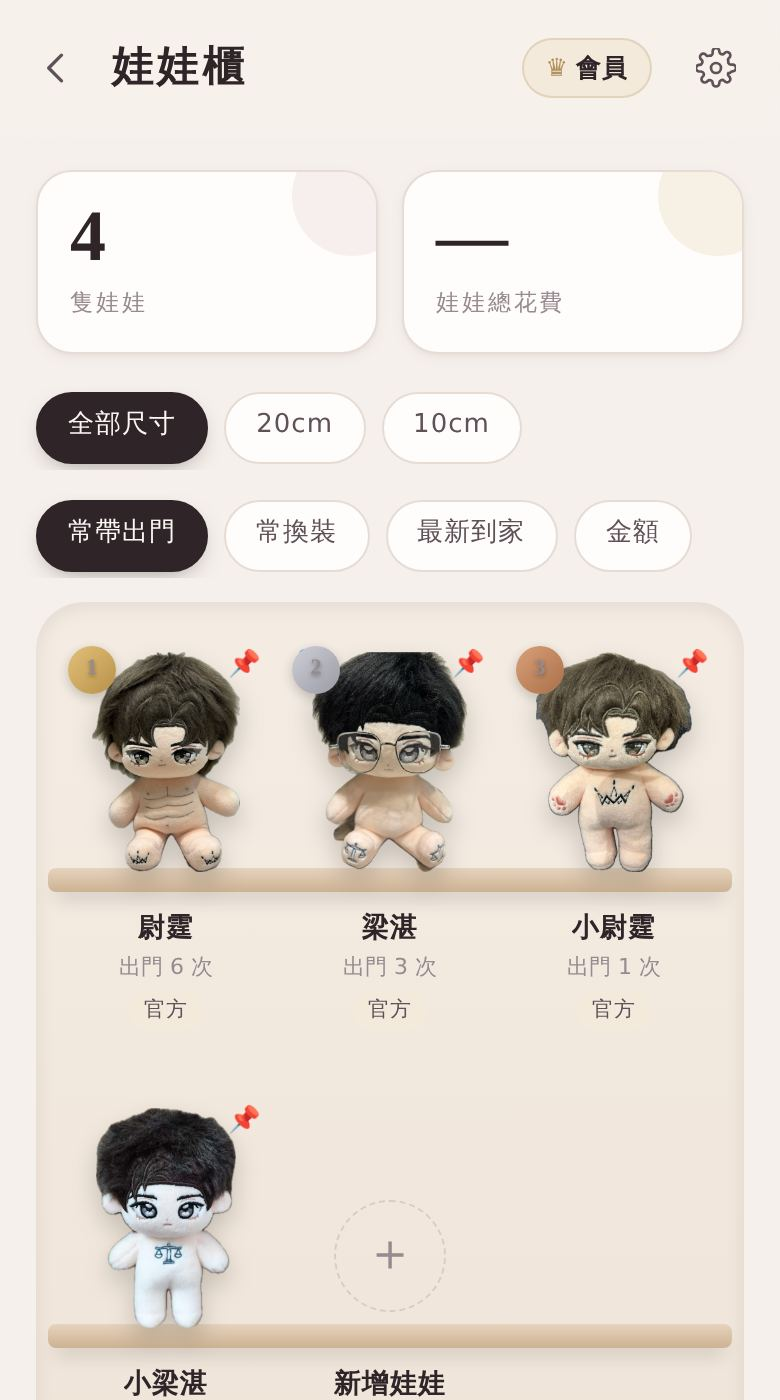
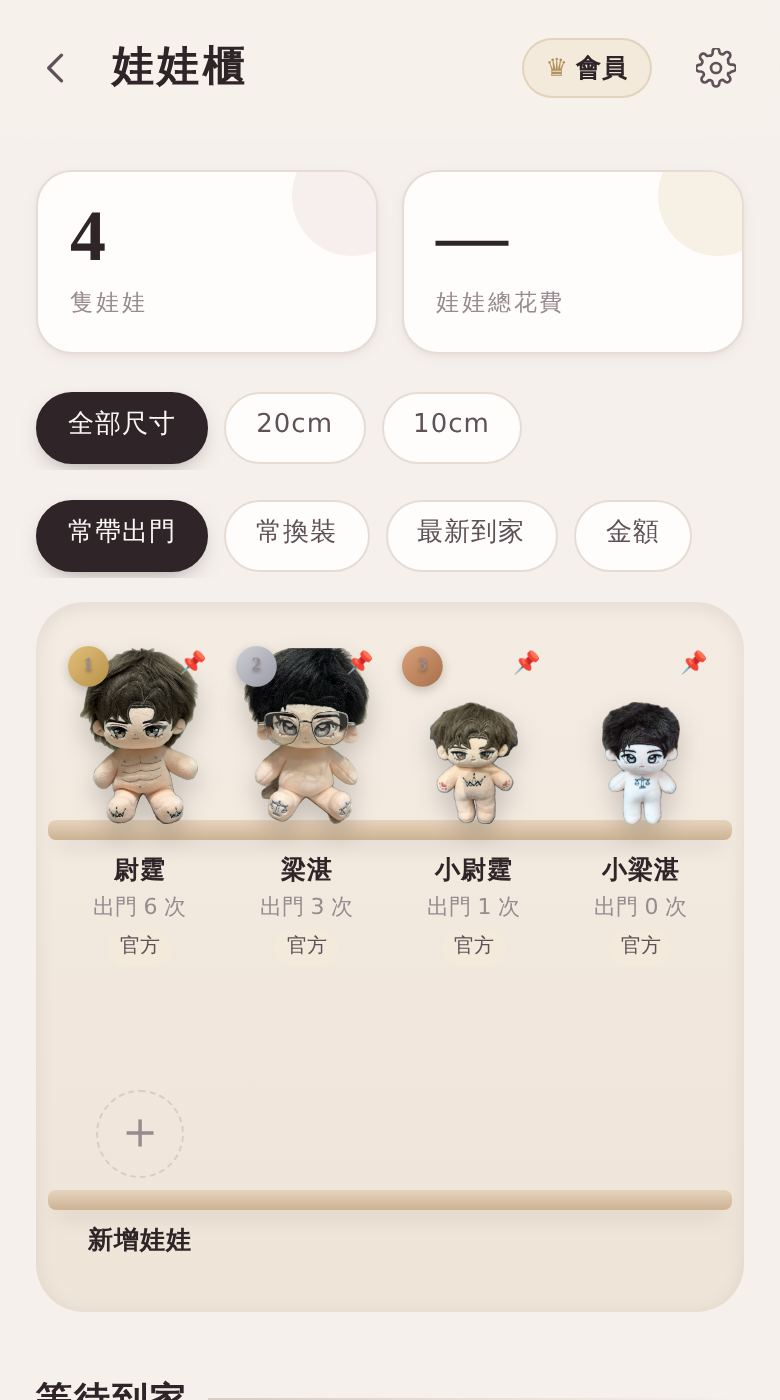
Compact doll cabinet: 4 per shelf, smaller dolls stand shorter
Claude-Session: https://claude.ai/code/session_013p9EF3oSTmkYepVm2bjkxk

diff --git a/doll-wardrobe.html b/doll-wardrobe.html
@@ -675,18 +675,21 @@ nav.tabs button.plus.on{color:var(--berry)}
 .scwrap img:not([src]){display:none}
 .scwrap .spin{position:absolute;width:22px;height:22px}
 .cabinet{margin-top:6px;padding:18px 12px 6px;border-radius:24px;background:linear-gradient(180deg,var(--wood-bg1),var(--wood-bg2));box-shadow:inset 0 2px 10px rgba(0,0,0,.08)}
-.shelf{display:grid;grid-template-columns:repeat(3,1fr);gap:6px;position:relative;padding-bottom:14px;margin-bottom:18px}
-.shelf::before{content:"";position:absolute;left:-6px;right:-6px;top:calc(min(30vw,150px) - 2px);height:12px;border-radius:4px;
+.shelf{display:grid;grid-template-columns:repeat(4,1fr);gap:4px;position:relative;padding-bottom:8px;margin-bottom:12px}
+.shelf::before{content:"";position:absolute;left:-6px;right:-6px;top:calc(min(24vw,112px) - 2px);height:10px;border-radius:4px;
   background:linear-gradient(180deg,var(--wood1),var(--wood2));box-shadow:0 6px 10px -4px rgba(0,0,0,.25)}
 .dcell{display:flex;flex-direction:column;align-items:center;text-align:center;position:relative;z-index:1;min-width:0;transition:transform .18s var(--ease)}
 .dcell:active{transform:scale(.96)}
-.dstand{position:relative;height:min(30vw,150px);width:100%;display:flex;align-items:flex-end;justify-content:center}
+.dstand{position:relative;height:min(24vw,112px);width:100%;display:flex;align-items:flex-end;justify-content:center}
 .dstand img{max-width:92%;max-height:94%;object-fit:contain;filter:drop-shadow(0 6px 6px rgba(0,0,0,.18))}
+.dstand.small img{max-height:66%;max-width:72%}
+.dcell .pin{font-size:11px}
+.rank{transform:scale(.85);transform-origin:top left}
 .dstand .ph svg{height:80px;width:auto}
-.dcell.add .dstand span{width:56px;height:56px;margin-bottom:8px;border-radius:50%;display:grid;place-items:center;border:1.5px dashed var(--line-2);color:var(--muted);font-size:26px;font-weight:300}
-.dcell b{margin-top:18px;font-size:13.5px;max-width:100%;overflow:hidden;text-overflow:ellipsis;white-space:nowrap}
+.dcell.add .dstand span{width:44px;height:44px;margin-bottom:8px;border-radius:50%;display:grid;place-items:center;border:1.5px dashed var(--line-2);color:var(--muted);font-size:26px;font-weight:300}
+.dcell b{margin-top:13px;font-size:12.5px;max-width:100%;overflow:hidden;text-overflow:ellipsis;white-space:nowrap}
 .dcell span{font-size:11px;color:var(--muted)}
-.dcell em{font-style:normal;font-size:10.5px;margin-top:3px;padding:1px 8px;border-radius:999px;background:var(--berry-soft);color:var(--berry-deep);max-width:100%;overflow:hidden;text-overflow:ellipsis;white-space:nowrap}
+.dcell em{font-style:normal;font-size:10px;margin-top:2px;padding:1px 6px;border-radius:999px;background:var(--berry-soft);color:var(--berry-deep);max-width:100%;overflow:hidden;text-overflow:ellipsis;white-space:nowrap}
 .dcell em.src{background:var(--gold-soft);color:var(--ink-2)}
 .rank{position:absolute;top:4px;left:4px;width:24px;height:24px;border-radius:50%;display:grid;place-items:center;font-family:var(--num);font-weight:700;font-size:15px;color:#fff;z-index:2;text-shadow:0 1px 2px rgba(0,0,0,.35);box-shadow:0 2px 6px rgba(0,0,0,.2)}
 .rank.r1{background:linear-gradient(135deg,#E2C07A,#B8914A)}
@@ -2496,6 +2499,11 @@ let DD={};
 const DOLL_SRC=['跟團購買','私生','官方','二手','交換／贈送','其他'];
 const DOLL_SORT=[['out','常帶出門'],['wear','常換裝'],['new','最新到家'],['price','金額']];
 const outCount=d=>(d.outs||[]).length;
+// 娃娃櫃裡比較小隻的（例如 10cm 跟 20cm 放一起）站得矮一點，看得出大小
+function dollSmall(d){
+  const cm=x=>parseFloat(x&&x.size)||0,max=Math.max(0,...S.dolls.map(cm));
+  return cm(d)>0&&max>0&&cm(d)<=max*.6;
+}
 function renderDolls(){
   const el=document.getElementById('dollList');
   const srt=UI.dollSort||'out';
@@ -2508,7 +2516,7 @@ function renderDolls(){
   const cnt=f=>S.dolls.filter(f).length;
   // 依照「常帶出門」排出前三名
   const rank=S.dolls.filter(d=>outCount(d)>0).sort((a,b)=>outCount(b)-outCount(a)).slice(0,3).map(d=>d.id);
-  const rows=[];for(let i=0;i<list.length+1;i+=3)rows.push(list.slice(i,i+3));
+  const rows=[];for(let i=0;i<list.length+1;i+=4)rows.push(list.slice(i,i+4));
   el.innerHTML=`
     <div class="stat">
       <div><b>${S.dolls.length}</b><span>隻娃娃</span></div>
@@ -2520,7 +2528,7 @@ function renderDolls(){
       ${rows.map((r,ri)=>`<div class="shelf">${r.map(d=>{
         const n=rank.indexOf(d.id);
         return `<button class="dcell" onclick="openDoll('${d.id}')">
-          <div class="dstand">${d.photo?`<img src="${d.photo}" alt="">`:`<div class="ph sm">${DOLL_SVG}</div>`}${d.pin?'<span class="pin" title="釘選在首頁">📌</span>':''}${dollOpen(d).some(c=>c.status==='處理中')?'<span class="pin" style="left:6px;right:auto" title="在手作娘那裡">🪡</span>':dollOpen(d).length?'<span class="pin" style="left:6px;right:auto" title="有要處理的">⚠</span>':''}
+          <div class="dstand ${dollSmall(d)?'small':''}">${d.photo?`<img src="${d.photo}" alt="">`:`<div class="ph sm">${DOLL_SVG}</div>`}${d.pin?'<span class="pin" title="釘選在首頁">📌</span>':''}${dollOpen(d).some(c=>c.status==='處理中')?'<span class="pin" style="left:6px;right:auto" title="在手作娘那裡">🪡</span>':dollOpen(d).length?'<span class="pin" style="left:6px;right:auto" title="有要處理的">⚠</span>':''}
             ${n>=0&&srt==='out'?`<span class="rank r${n+1}">${n+1}</span>`:''}</div>
           <b>${esc(d.name)}</b>
           <span>${srt==='wear'?`換裝 ${dollWears(d).length} 次`:srt==='price'&&d.price?`$${(+d.price).toLocaleString()}`:`出門 ${outCount(d)} 次`}</span>

diff --git a/index.html b/index.html
@@ -675,18 +675,21 @@ nav.tabs button.plus.on{color:var(--berry)}
 .scwrap img:not([src]){display:none}
 .scwrap .spin{position:absolute;width:22px;height:22px}
 .cabinet{margin-top:6px;padding:18px 12px 6px;border-radius:24px;background:linear-gradient(180deg,var(--wood-bg1),var(--wood-bg2));box-shadow:inset 0 2px 10px rgba(0,0,0,.08)}
-.shelf{display:grid;grid-template-columns:repeat(3,1fr);gap:6px;position:relative;padding-bottom:14px;margin-bottom:18px}
-.shelf::before{content:"";position:absolute;left:-6px;right:-6px;top:calc(min(30vw,150px) - 2px);height:12px;border-radius:4px;
+.shelf{display:grid;grid-template-columns:repeat(4,1fr);gap:4px;position:relative;padding-bottom:8px;margin-bottom:12px}
+.shelf::before{content:"";position:absolute;left:-6px;right:-6px;top:calc(min(24vw,112px) - 2px);height:10px;border-radius:4px;
   background:linear-gradient(180deg,var(--wood1),var(--wood2));box-shadow:0 6px 10px -4px rgba(0,0,0,.25)}
 .dcell{display:flex;flex-direction:column;align-items:center;text-align:center;position:relative;z-index:1;min-width:0;transition:transform .18s var(--ease)}
 .dcell:active{transform:scale(.96)}
-.dstand{position:relative;height:min(30vw,150px);width:100%;display:flex;align-items:flex-end;justify-content:center}
+.dstand{position:relative;height:min(24vw,112px);width:100%;display:flex;align-items:flex-end;justify-content:center}
 .dstand img{max-width:92%;max-height:94%;object-fit:contain;filter:drop-shadow(0 6px 6px rgba(0,0,0,.18))}
+.dstand.small img{max-height:66%;max-width:72%}
+.dcell .pin{font-size:11px}
+.rank{transform:scale(.85);transform-origin:top left}
 .dstand .ph svg{height:80px;width:auto}
-.dcell.add .dstand span{width:56px;height:56px;margin-bottom:8px;border-radius:50%;display:grid;place-items:center;border:1.5px dashed var(--line-2);color:var(--muted);font-size:26px;font-weight:300}
-.dcell b{margin-top:18px;font-size:13.5px;max-width:100%;overflow:hidden;text-overflow:ellipsis;white-space:nowrap}
+.dcell.add .dstand span{width:44px;height:44px;margin-bottom:8px;border-radius:50%;display:grid;place-items:center;border:1.5px dashed var(--line-2);color:var(--muted);font-size:26px;font-weight:300}
+.dcell b{margin-top:13px;font-size:12.5px;max-width:100%;overflow:hidden;text-overflow:ellipsis;white-space:nowrap}
 .dcell span{font-size:11px;color:var(--muted)}
-.dcell em{font-style:normal;font-size:10.5px;margin-top:3px;padding:1px 8px;border-radius:999px;background:var(--berry-soft);color:var(--berry-deep);max-width:100%;overflow:hidden;text-overflow:ellipsis;white-space:nowrap}
+.dcell em{font-style:normal;font-size:10px;margin-top:2px;padding:1px 6px;border-radius:999px;background:var(--berry-soft);color:var(--berry-deep);max-width:100%;overflow:hidden;text-overflow:ellipsis;white-space:nowrap}
 .dcell em.src{background:var(--gold-soft);color:var(--ink-2)}
 .rank{position:absolute;top:4px;left:4px;width:24px;height:24px;border-radius:50%;display:grid;place-items:center;font-family:var(--num);font-weight:700;font-size:15px;color:#fff;z-index:2;text-shadow:0 1px 2px rgba(0,0,0,.35);box-shadow:0 2px 6px rgba(0,0,0,.2)}
 .rank.r1{background:linear-gradient(135deg,#E2C07A,#B8914A)}
@@ -2496,6 +2499,11 @@ let DD={};
 const DOLL_SRC=['跟團購買','私生','官方','二手','交換／贈送','其他'];
 const DOLL_SORT=[['out','常帶出門'],['wear','常換裝'],['new','最新到家'],['price','金額']];
 const outCount=d=>(d.outs||[]).length;
+// 娃娃櫃裡比較小隻的（例如 10cm 跟 20cm 放一起）站得矮一點，看得出大小
+function dollSmall(d){
+  const cm=x=>parseFloat(x&&x.size)||0,max=Math.max(0,...S.dolls.map(cm));
+  return cm(d)>0&&max>0&&cm(d)<=max*.6;
+}
 function renderDolls(){
   const el=document.getElementById('dollList');
   const srt=UI.dollSort||'out';
@@ -2508,7 +2516,7 @@ function renderDolls(){
   const cnt=f=>S.dolls.filter(f).length;
   // 依照「常帶出門」排出前三名
   const rank=S.dolls.filter(d=>outCount(d)>0).sort((a,b)=>outCount(b)-outCount(a)).slice(0,3).map(d=>d.id);
-  const rows=[];for(let i=0;i<list.length+1;i+=3)rows.push(list.slice(i,i+3));
+  const rows=[];for(let i=0;i<list.length+1;i+=4)rows.push(list.slice(i,i+4));
   el.innerHTML=`
     <div class="stat">
       <div><b>${S.dolls.length}</b><span>隻娃娃</span></div>
@@ -2520,7 +2528,7 @@ function renderDolls(){
       ${rows.map((r,ri)=>`<div class="shelf">${r.map(d=>{
         const n=rank.indexOf(d.id);
         return `<button class="dcell" onclick="openDoll('${d.id}')">
-          <div class="dstand">${d.photo?`<img src="${d.photo}" alt="">`:`<div class="ph sm">${DOLL_SVG}</div>`}${d.pin?'<span class="pin" title="釘選在首頁">📌</span>':''}${dollOpen(d).some(c=>c.status==='處理中')?'<span class="pin" style="left:6px;right:auto" title="在手作娘那裡">🪡</span>':dollOpen(d).length?'<span class="pin" style="left:6px;right:auto" title="有要處理的">⚠</span>':''}
+          <div class="dstand ${dollSmall(d)?'small':''}">${d.photo?`<img src="${d.photo}" alt="">`:`<div class="ph sm">${DOLL_SVG}</div>`}${d.pin?'<span class="pin" title="釘選在首頁">📌</span>':''}${dollOpen(d).some(c=>c.status==='處理中')?'<span class="pin" style="left:6px;right:auto" title="在手作娘那裡">🪡</span>':dollOpen(d).length?'<span class="pin" style="left:6px;right:auto" title="有要處理的">⚠</span>':''}
             ${n>=0&&srt==='out'?`<span class="rank r${n+1}">${n+1}</span>`:''}</div>
           <b>${esc(d.name)}</b>
           <span>${srt==='wear'?`換裝 ${dollWears(d).length} 次`:srt==='price'&&d.price?`$${(+d.price).toLocaleString()}`:`出門 ${outCount(d)} 次`}</span>
